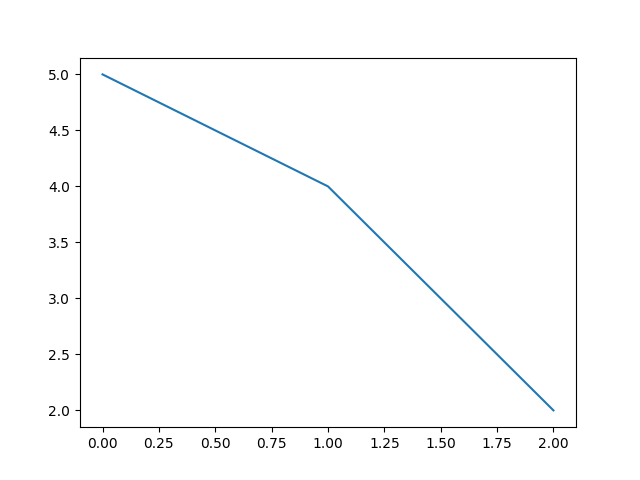
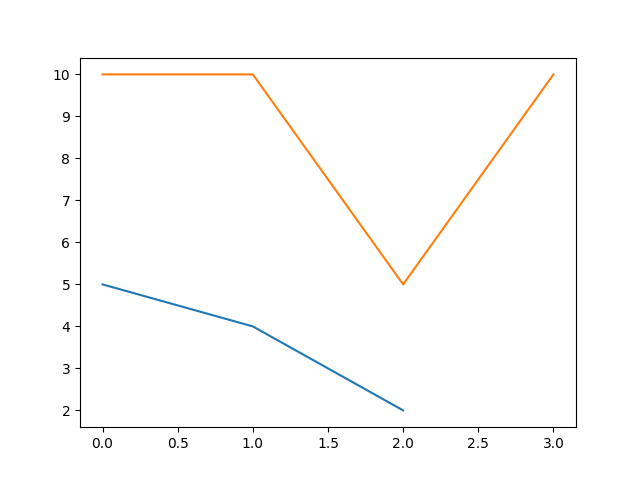
Testing committing to branches

diff --git a/test.py b/test.py
@@ -5,4 +5,6 @@ array = np.zeros((2,3))
 print(array)
 
 plt.plot((5,4,2))
+
+plt.plot((10,10,5,10))
 plt.savefig("test.png")
